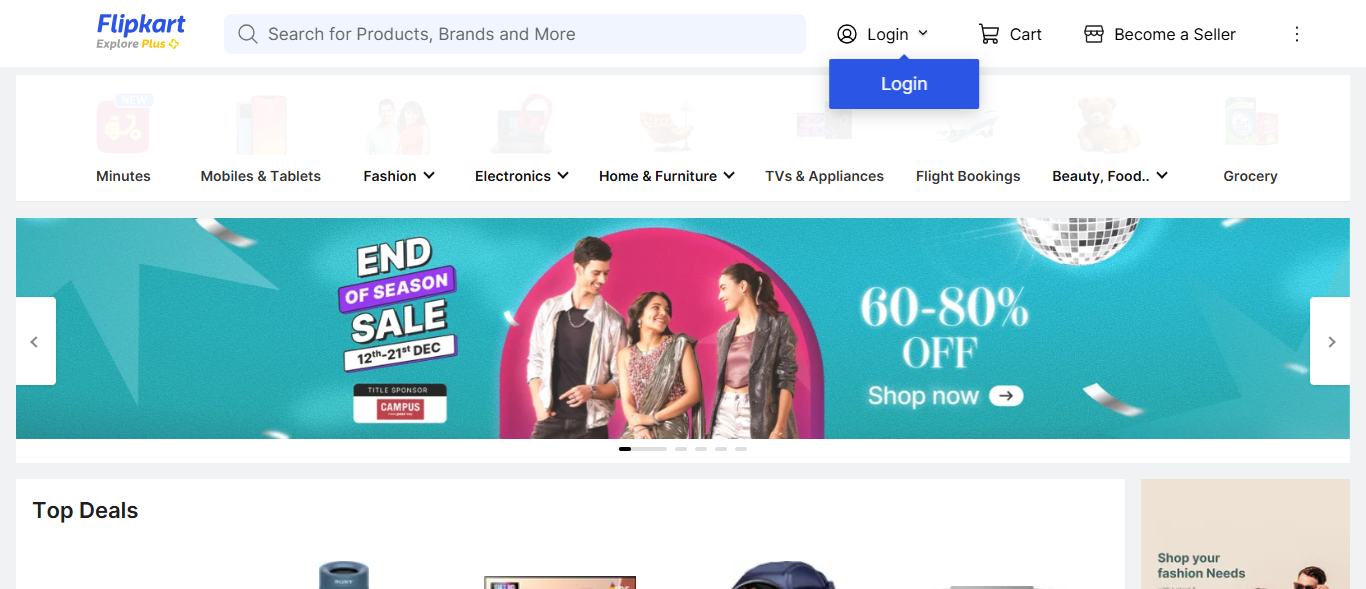
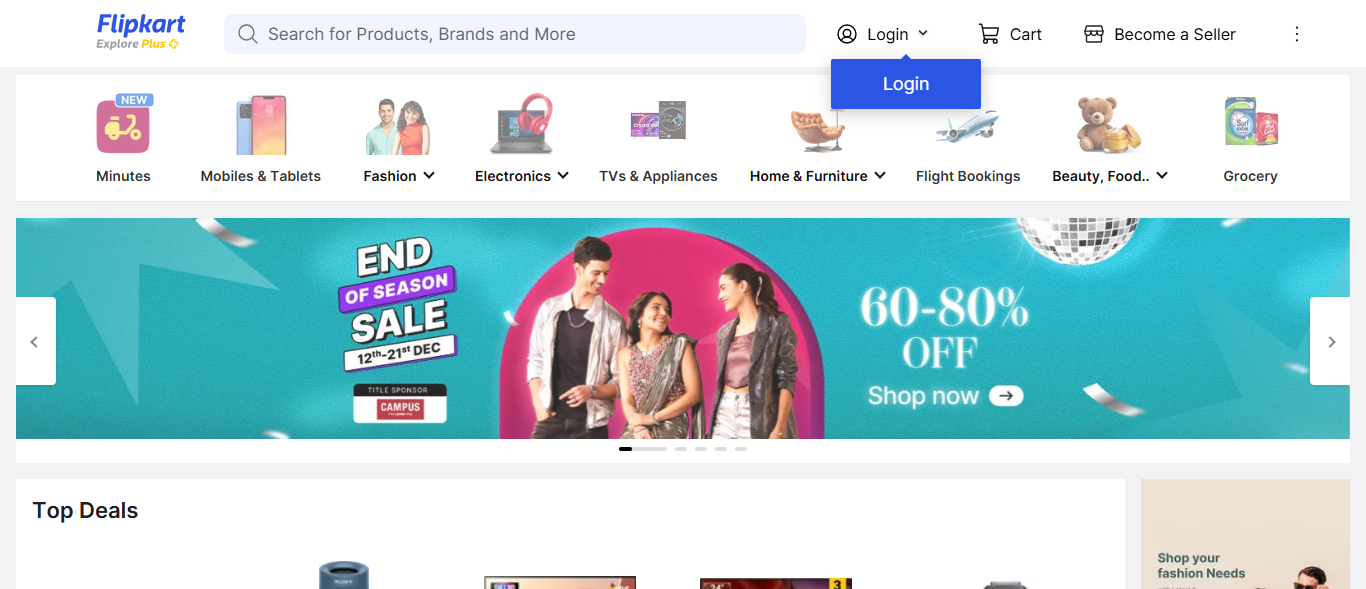
Installed requests library for testing API

diff --git a/tests/test_API.py b/tests/test_API.py
@@ -1,0 +1,8 @@
+import requests
+import json
+
+request = requests.get(url="https://www.flipkart.com/")
+assert request.status_code==201, f"Validation failed"
+print(request.status_code)
+
+
